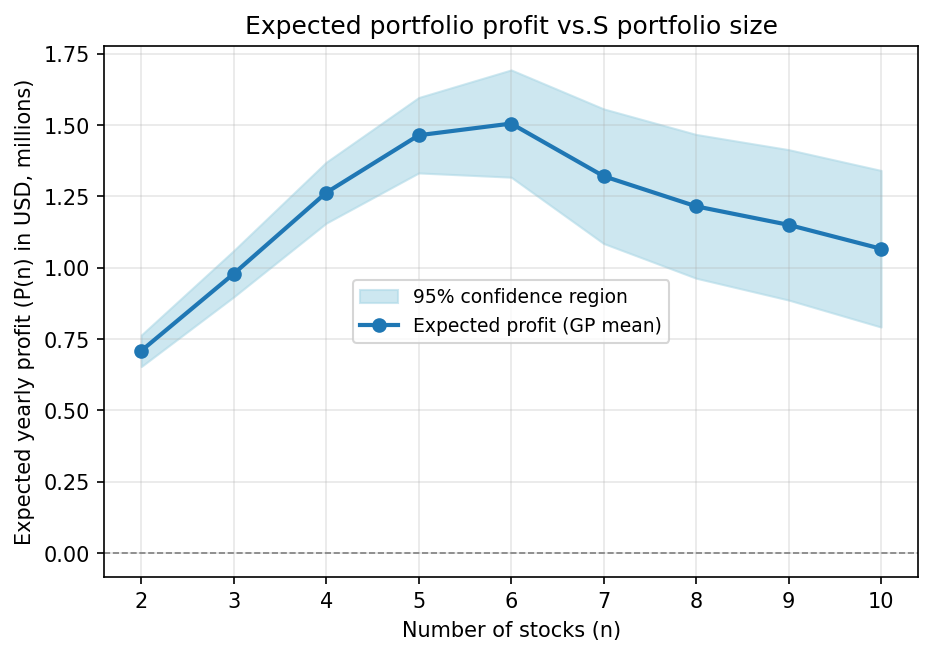
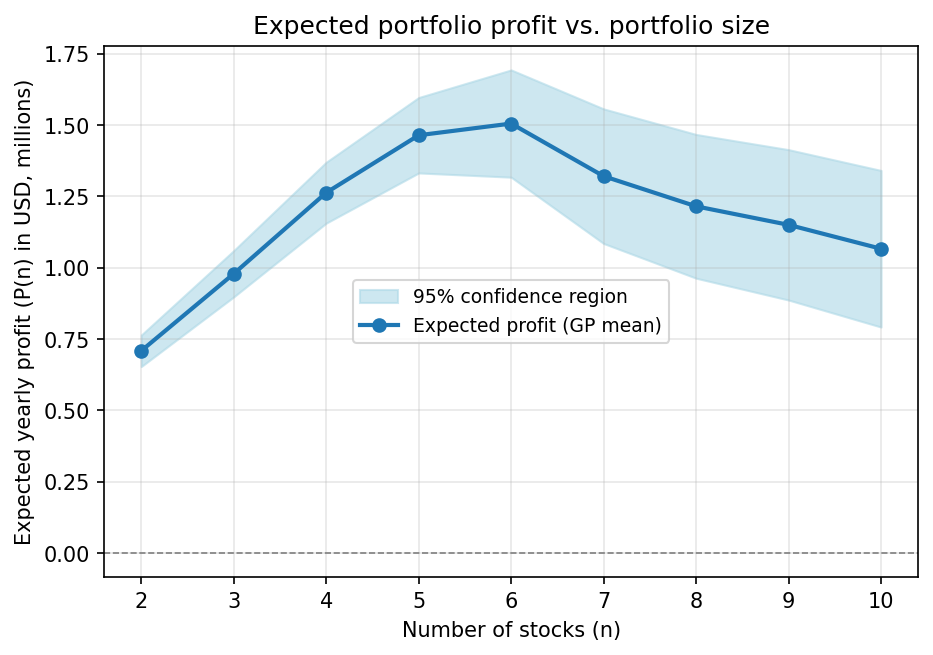
ready for submission

Changed region(s): [[0.2487, 0.0, 0.8392, 0.0611]]

diff --git a/project3_part3_theoretical.py b/project3_part3_theoretical.py
@@ -1,0 +1,44 @@
+r"""
+project3_part3_theoretical.py
+Part 3, Task 2(a). Computes total expected yearly profit using the
+THEORETICAL diversification efficiency η(p) = 1/(1 + 1/p), i.e.,
+ignoring the GP and the simulation data entirely. Loads the optimized
+p*(n) values from Part 1 and applies the handout's profit formula at
+each n ∈ [2, 10] to answer:
+"How many stocks would you recommend if you ignored uncertainty
+ and used only the theoretical efficiency?"
+"""
+
+import numpy as np
+
+
+#economic parameters (from the handout)
+CAPITAL_PER_STOCK = 25_000_000.0  #$25M per position
+ALPHA_PER_STOCK = 0.04            #4% expected annualized excess return
+COST_PER_STOCK = 550_000.0        #$550k annual cost per position
+
+
+def main():
+    #load (n, p*) from Part 1
+    csv = np.loadtxt("portfolio_layouts.csv", delimiter=",")
+    n_values = csv[:, 0].astype(int)
+    p_values = csv[:, 1]
+
+    #theoretical efficiency at each p*
+    eta_theory = 1.0 / (1.0 + 1.0 / p_values)
+
+    #profit: P(n) = n · η · cap · α − n · cost
+    P_theory = (n_values * eta_theory * CAPITAL_PER_STOCK * ALPHA_PER_STOCK
+                - n_values * COST_PER_STOCK)
+
+    #print
+    print(f"{'n':>3} {'p*':>7} {'eta_theory':>11} {'P_theory ($M)':>14}")
+    for n, p, eta, P in zip(n_values, p_values, eta_theory, P_theory):
+        print(f"{n:3d} {p:7.4f} {eta:11.4f} {P/1e6:14.4f}")
+
+    best = np.argmax(P_theory)
+    print(f"\nargmax: n = {n_values[best]}, P = ${P_theory[best]/1e6:.3f}M")
+
+
+if __name__ == "__main__":
+    main()

diff --git a/part3.py b/part3.py
@@ -61,7 +61,7 @@ def plot_profit_vs_n(n_values, P_mean, P_std, filename="profit_vs_n.png"):
     ax.set_xlabel("Number of stocks (n)")
     ax.set_ylabel("Expected yearly profit (P(n) in USD, millions)")
     ax.set_xticks(n_values)
-    ax.set_title("Expected portfolio profit vs.S portfolio size")
+    ax.set_title("Expected portfolio profit vs. portfolio size")
     ax.legend(loc="best", fontsize=9)
     ax.grid(True, alpha=0.3)
     fig.savefig(filename, dpi=150, bbox_inches="tight")